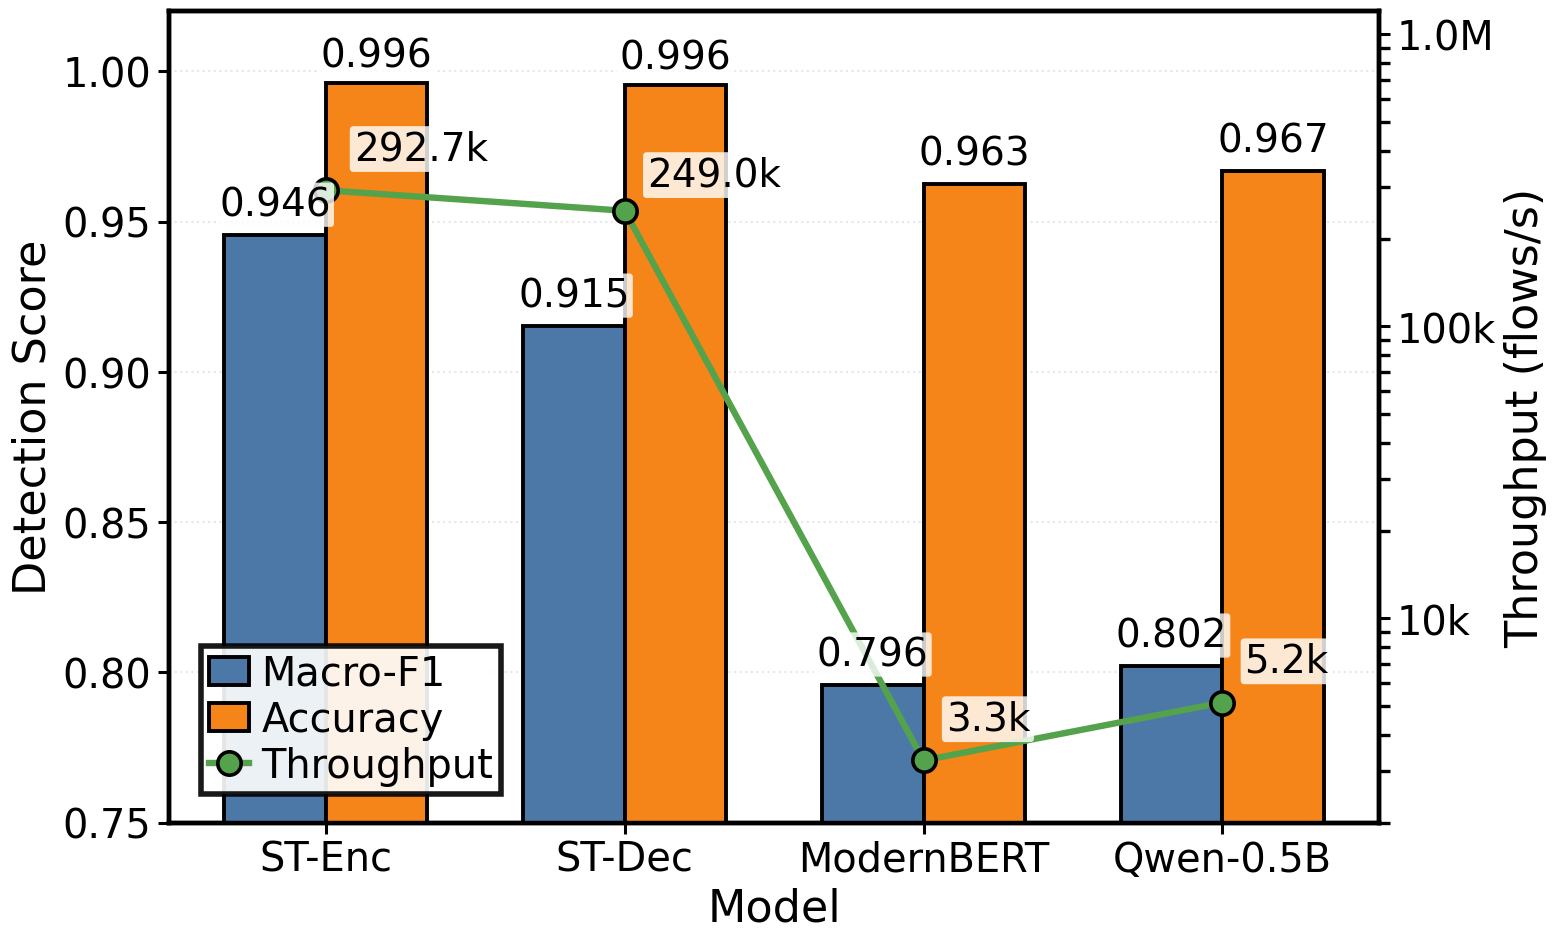
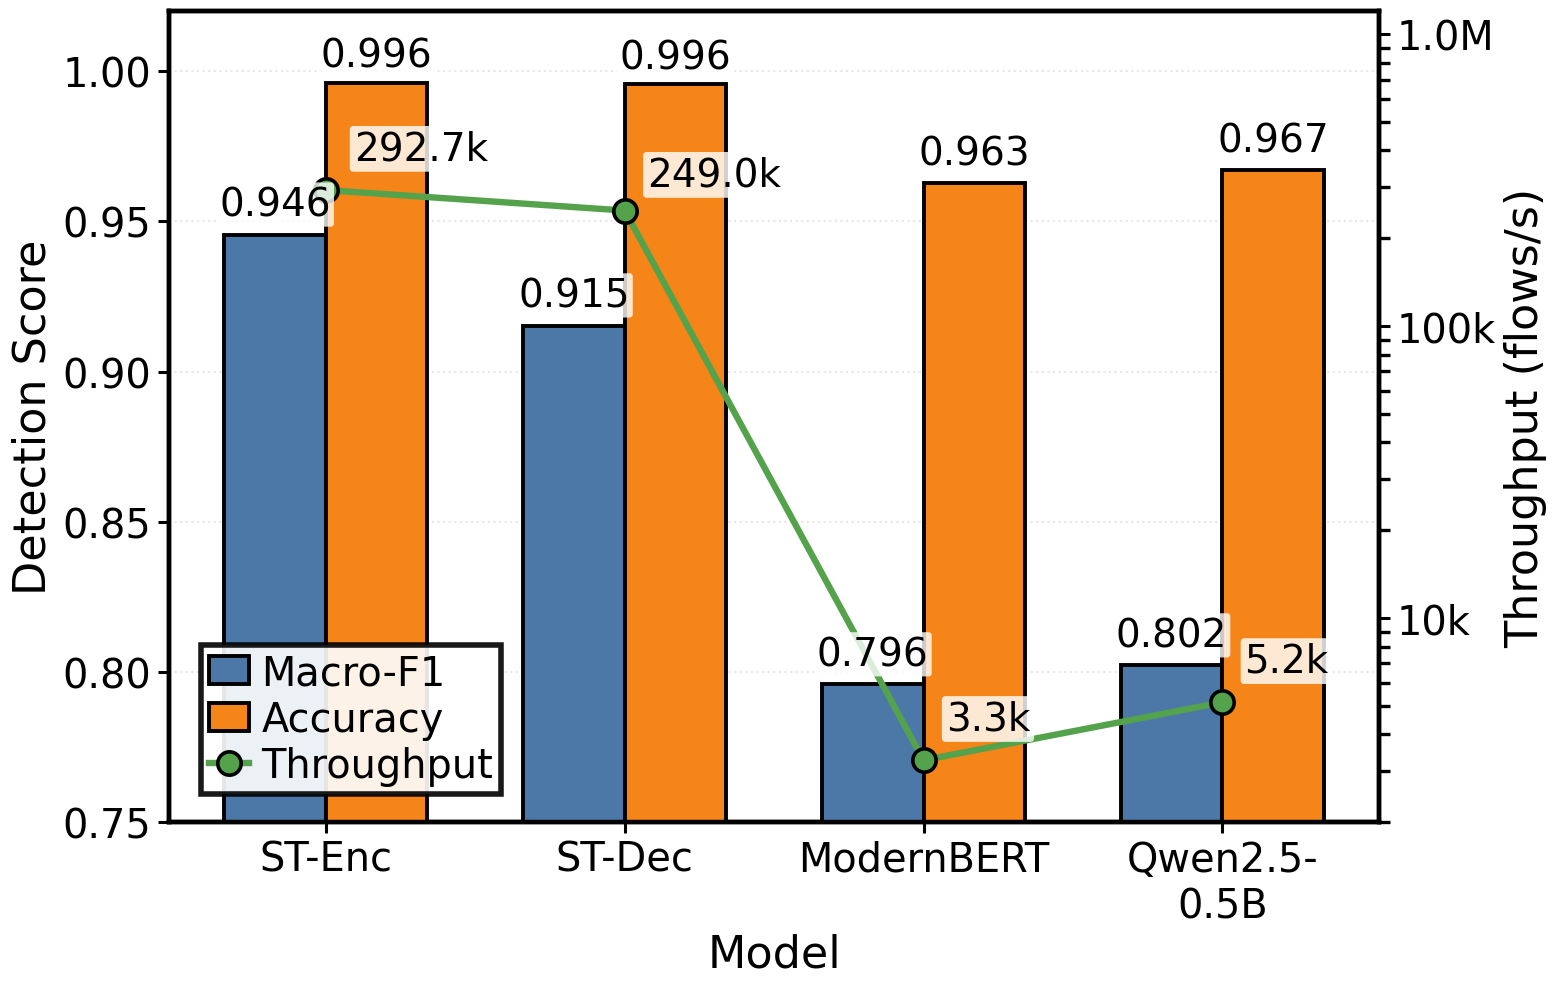
Update Figure 5 Qwen2.5 label

diff --git a/docs/supplementary/06_transformer_models.md b/docs/supplementary/06_transformer_models.md
@@ -11,7 +11,7 @@ model-family counts according to the evidence used by each comparison.
 | DeBERTa-v3 | Encoder | General | 183M | Encoder baseline |
 | CTI-BERT | Encoder | Domain | 110M | Security-specific encoder |
 | ModernBERT-DAPT | Encoder | Domain | 149M | Domain-adapted encoder |
-| Qwen-0.5B | Decoder | General | 494M | Decoder LLM |
+| Qwen2.5-0.5B | Decoder | General | 494M | Decoder LLM |
 
 The shallow capacity sweep spans 0.20M--3.38M trainable parameters. The strongest
 shallow operating point is `(d,L,H)=(64,4,2)` with 0.65M parameters, Macro-F1